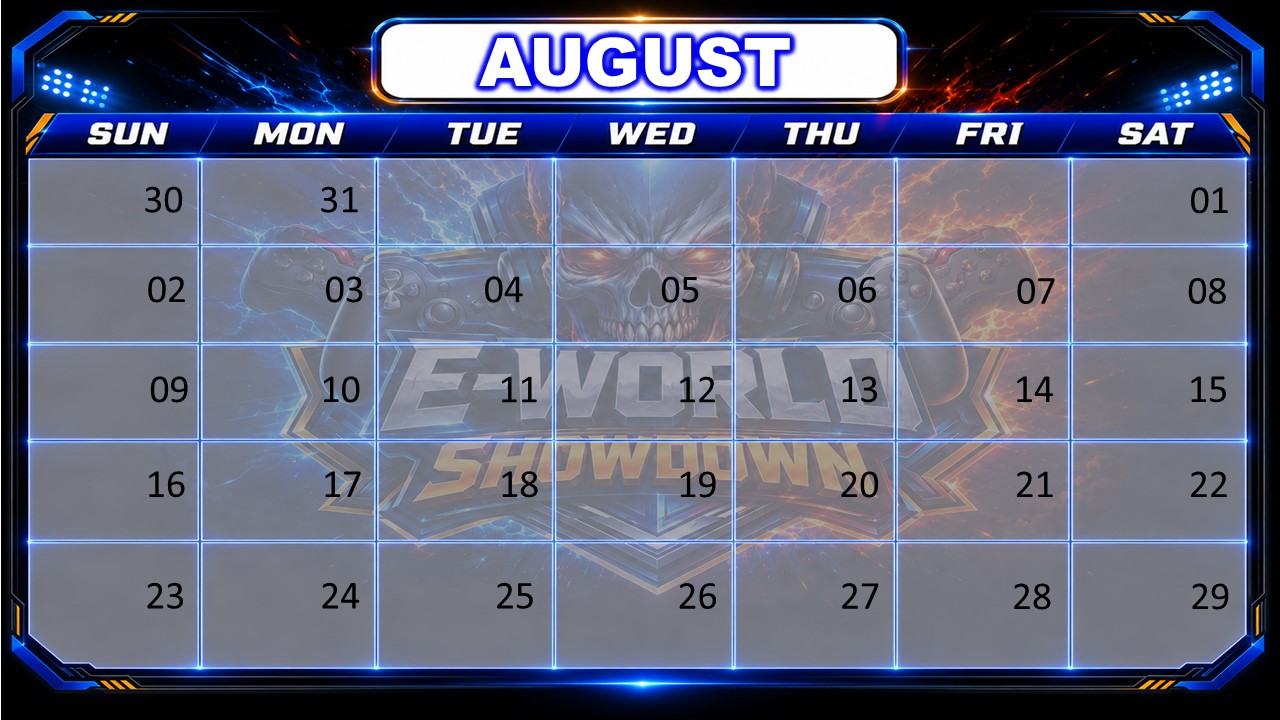
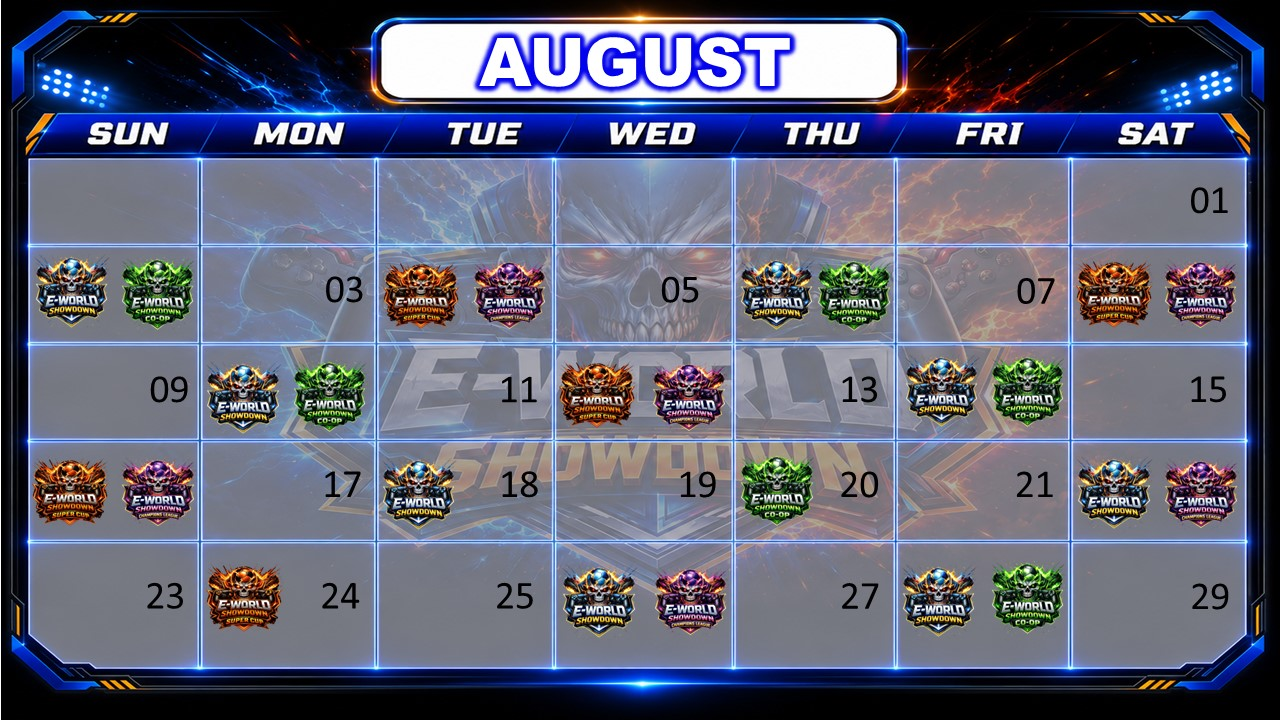
Calender update

diff --git a/index.html b/index.html
@@ -140,14 +140,14 @@
 
         <h2>Tournament Stats</h2> <br>
 
-        <div class="small-container">
+<!--        <div class="small-container">
             <div class="row league-container">
                 <div class="col-0">
                     <h2>E-World League Cup - Division 1</h2> 
-                 <!--   <img src="images/tournaments/tournament stats/League Fixtures/League.jpg">
-                        <img src="images/tournaments/tournament stats/League Fixtures/Goals.jpg"> -->
+                    <img src="images/tournaments/tournament stats/League Fixtures/League.jpg">
+                        <img src="images/tournaments/tournament stats/League Fixtures/Goals.jpg"> 
                     <div class="league-scroll">
-                <!--    <img src="images/tournaments/tournament stats/League Fixtures/Round 30.jpg">
+                    <img src="images/tournaments/tournament stats/League Fixtures/Round 30.jpg">
                         <img src="images/tournaments/tournament stats/League Fixtures/Round 29.jpg">
                         <img src="images/tournaments/tournament stats/League Fixtures/Round 28.jpg">
                         <img src="images/tournaments/tournament stats/League Fixtures/Round 27.jpg">
@@ -161,11 +161,11 @@
                         <img src="images/tournaments/tournament stats/League Fixtures/Round 20.jpg">
                         <img src="images/tournaments/tournament stats/League Fixtures/Round 19.jpg">
                         <img src="images/tournaments/tournament stats/League Fixtures/Round 18.jpg">
-                        <img src="images/tournaments/tournament stats/League Fixtures/Round 17.jpg"> -->
+                        <img src="images/tournaments/tournament stats/League Fixtures/Round 17.jpg">
                         <img src="images/tournaments/Season 2/tournament stats/Division 1 League/Fixrure.png">
                     </div>
                     <div class="league-scroll">
-                   <!-- <img src="images/tournaments/tournament stats/League Fixtures/Round 15.jpg">
+                    <img src="images/tournaments/tournament stats/League Fixtures/Round 15.jpg">
                         <img src="images/tournaments/tournament stats/League Fixtures/Round 14.jpg">
                         <img src="images/tournaments/tournament stats/League Fixtures/Round 13.jpg">
                         <img src="images/tournaments/tournament stats/League Fixtures/Round 12.jpg">
@@ -179,7 +179,7 @@
                         <img src="images/tournaments/tournament stats/League Fixtures/Round 5.jpg">
                         <img src="images/tournaments/tournament stats/League Fixtures/Round 4.jpg">
                         <img src="images/tournaments/tournament stats/League Fixtures/Round 3.jpg">
-                        <img src="images/tournaments/tournament stats/League Fixtures/Round 2.jpg"> -->
+                        <img src="images/tournaments/tournament stats/League Fixtures/Round 2.jpg">
                         <img src="images/tournaments/Season 2/tournament stats/Division 1 League/Fixrure.png">
                     </div>
                 </div>
@@ -192,10 +192,10 @@
             <div class="row league-container">
                 <div class="col-0">
                     <h2>E-World League Cup - Playoffs</h2> 
-                 <!--   <img src="images/tournaments/tournament stats/League Fixtures/League.jpg">
-                        <img src="images/tournaments/tournament stats/League Fixtures/Goals.jpg"> -->
+                        <img src="images/tournaments/tournament stats/League Fixtures/League.jpg">
+                        <img src="images/tournaments/tournament stats/League Fixtures/Goals.jpg">
                     <div class="league-scroll">
-                <!--    <img src="images/tournaments/tournament stats/League Fixtures/Round 30.jpg">
+                        <img src="images/tournaments/tournament stats/League Fixtures/Round 30.jpg">
                         <img src="images/tournaments/tournament stats/League Fixtures/Round 29.jpg">
                         <img src="images/tournaments/tournament stats/League Fixtures/Round 28.jpg">
                         <img src="images/tournaments/tournament stats/League Fixtures/Round 27.jpg">
@@ -209,11 +209,11 @@
                         <img src="images/tournaments/tournament stats/League Fixtures/Round 20.jpg">
                         <img src="images/tournaments/tournament stats/League Fixtures/Round 19.jpg">
                         <img src="images/tournaments/tournament stats/League Fixtures/Round 18.jpg">
-                        <img src="images/tournaments/tournament stats/League Fixtures/Round 17.jpg"> -->
+                        <img src="images/tournaments/tournament stats/League Fixtures/Round 17.jpg">
                         <img src="images/tournaments/Season 2/tournament stats/Division 2 League/Fixture.png">
                     </div>
                     <div class="league-scroll">
-                   <!-- <img src="images/tournaments/tournament stats/League Fixtures/Round 15.jpg">
+                    <img src="images/tournaments/tournament stats/League Fixtures/Round 15.jpg">
                         <img src="images/tournaments/tournament stats/League Fixtures/Round 14.jpg">
                         <img src="images/tournaments/tournament stats/League Fixtures/Round 13.jpg">
                         <img src="images/tournaments/tournament stats/League Fixtures/Round 12.jpg">
@@ -227,13 +227,13 @@
                         <img src="images/tournaments/tournament stats/League Fixtures/Round 5.jpg">
                         <img src="images/tournaments/tournament stats/League Fixtures/Round 4.jpg">
                         <img src="images/tournaments/tournament stats/League Fixtures/Round 3.jpg">
-                        <img src="images/tournaments/tournament stats/League Fixtures/Round 2.jpg"> -->
+                        <img src="images/tournaments/tournament stats/League Fixtures/Round 2.jpg">
                         <img src="images/tournaments/Season 2/tournament stats/Division 2 League/Fixture.png">
                     </div>
                 </div>
             </div>
         </div>
-<!--
+
     <div class="small-container">
             <div class="row">
                 <div class="col-0">
@@ -270,9 +270,8 @@
 
     </div>
     </div>
--->
 
-<br><br><br>
+<br><br><br> -->
 
         <div class="small-container">
             <div class="row league-container">